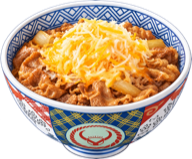
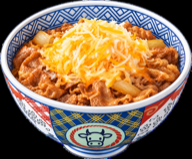
イラストをロゴ修正版に差し替え

Changed region(s): [[0.0, 0.0, 1.0, 1.0], [0.4062, 0.7799, 0.5938, 0.9308], [0.5312, 0.7547, 0.5625, 0.7799]]

diff --git a/sw.js b/sw.js
@@ -1,5 +1,5 @@
 // アプリの殻だけキャッシュし、データは常にネットワークから取る
-const CACHE = 'chigyu-v1';
+const CACHE = 'chigyu-v2';
 const SHELL = ['./', './index.html', './style.css', './app.js', './config.js', './manifest.webmanifest', './assets/bowl.png'];
 
 self.addEventListener('install', (e) => {
